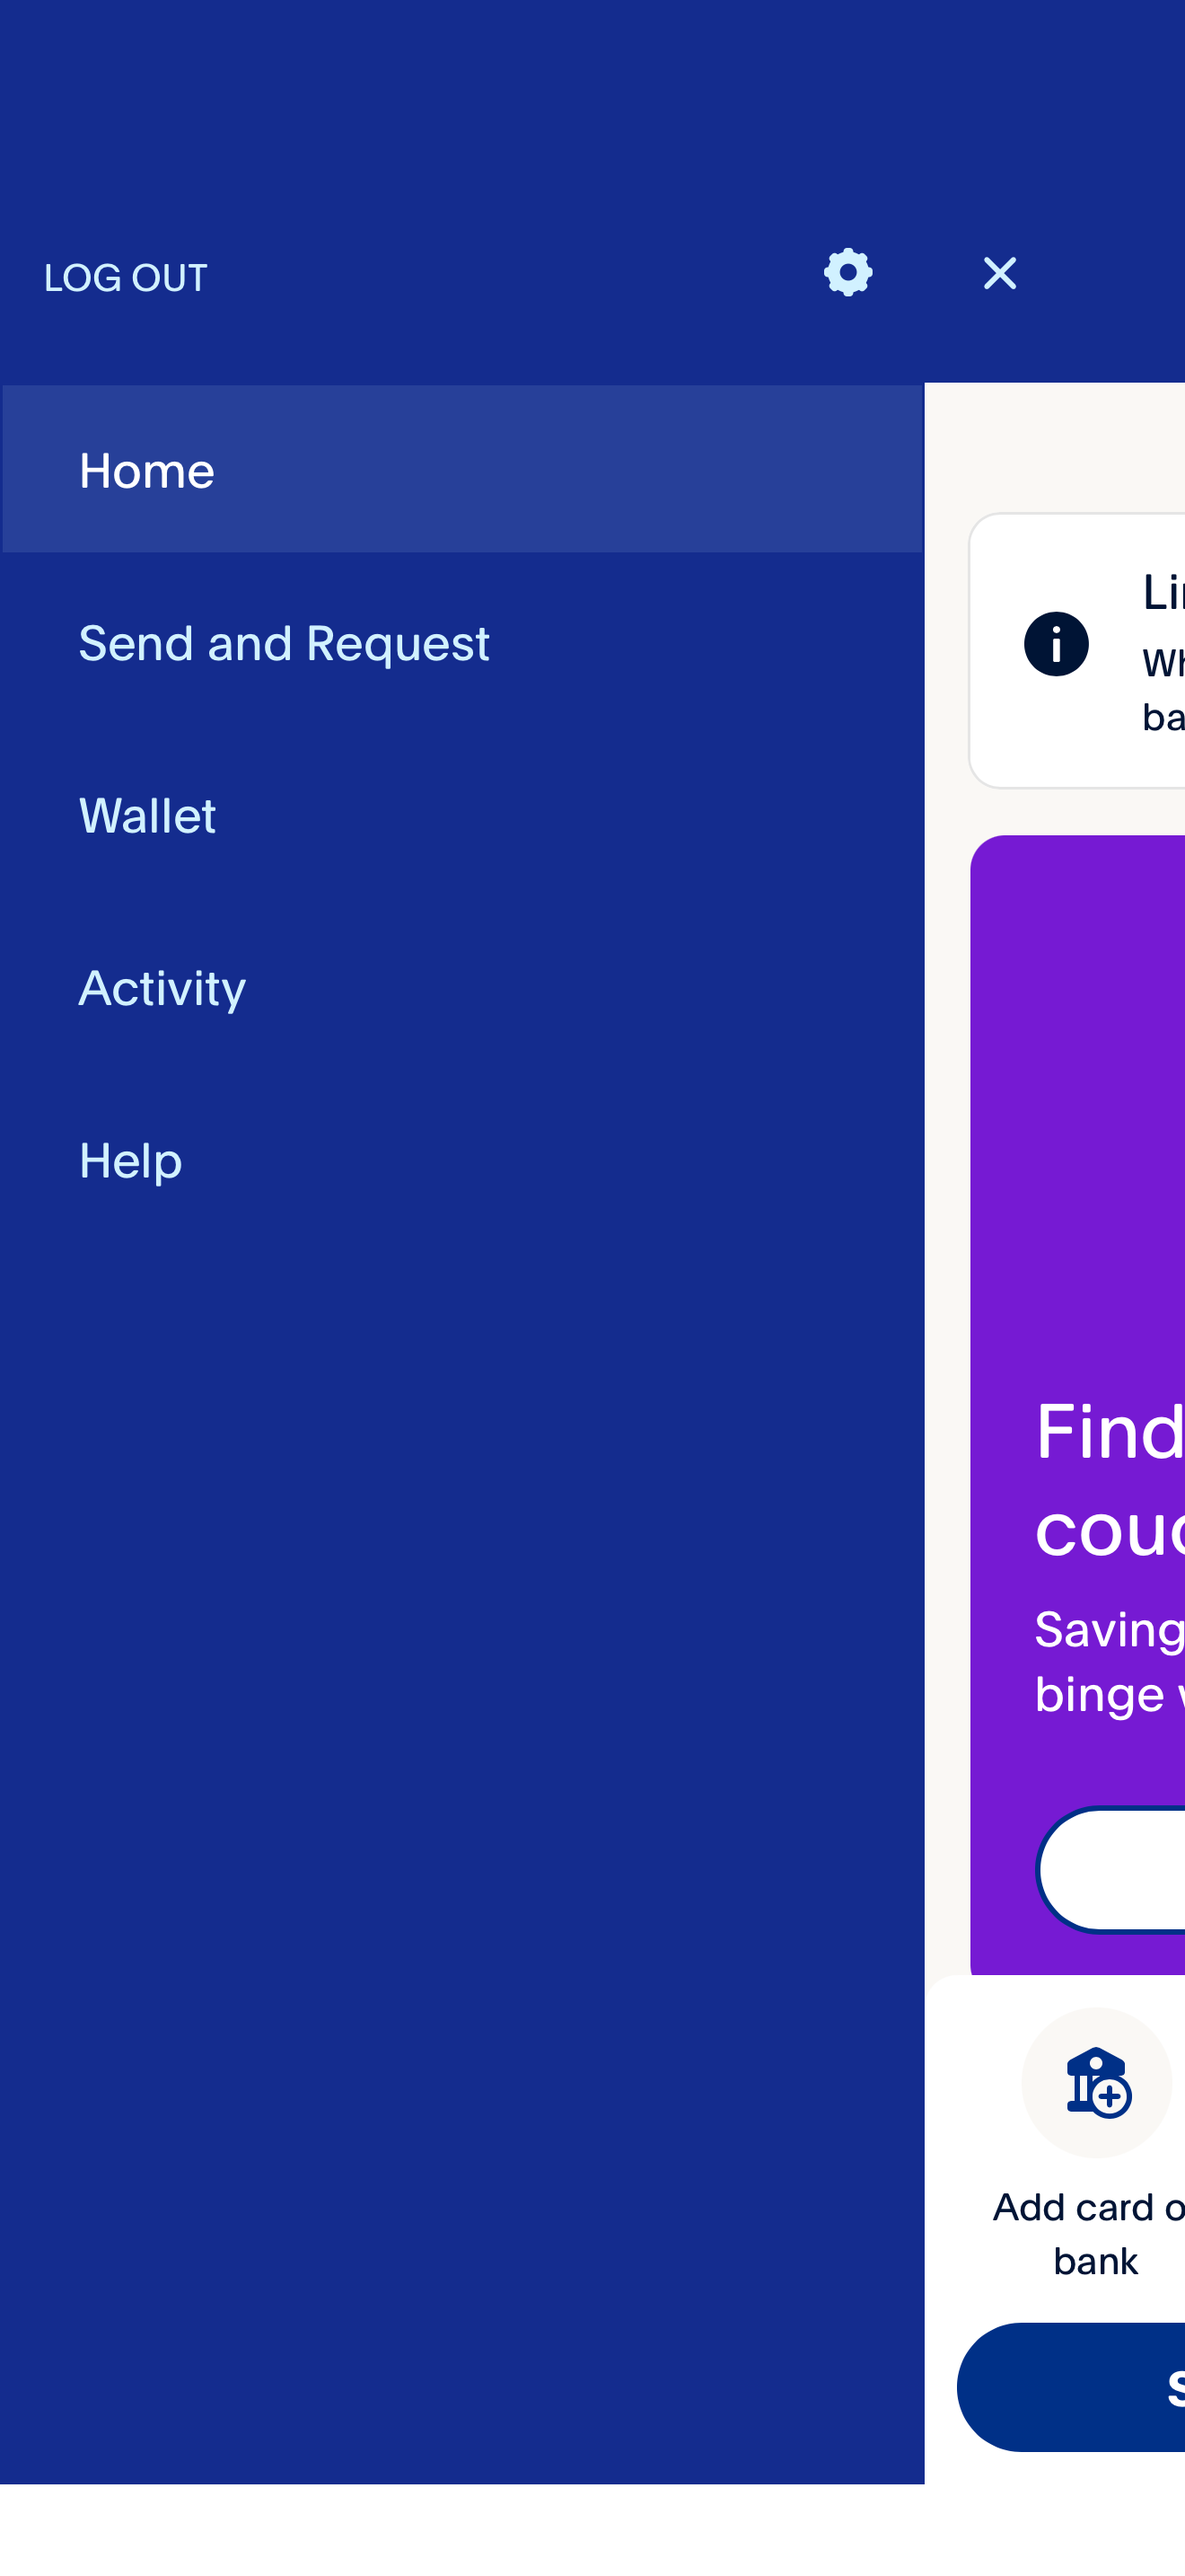
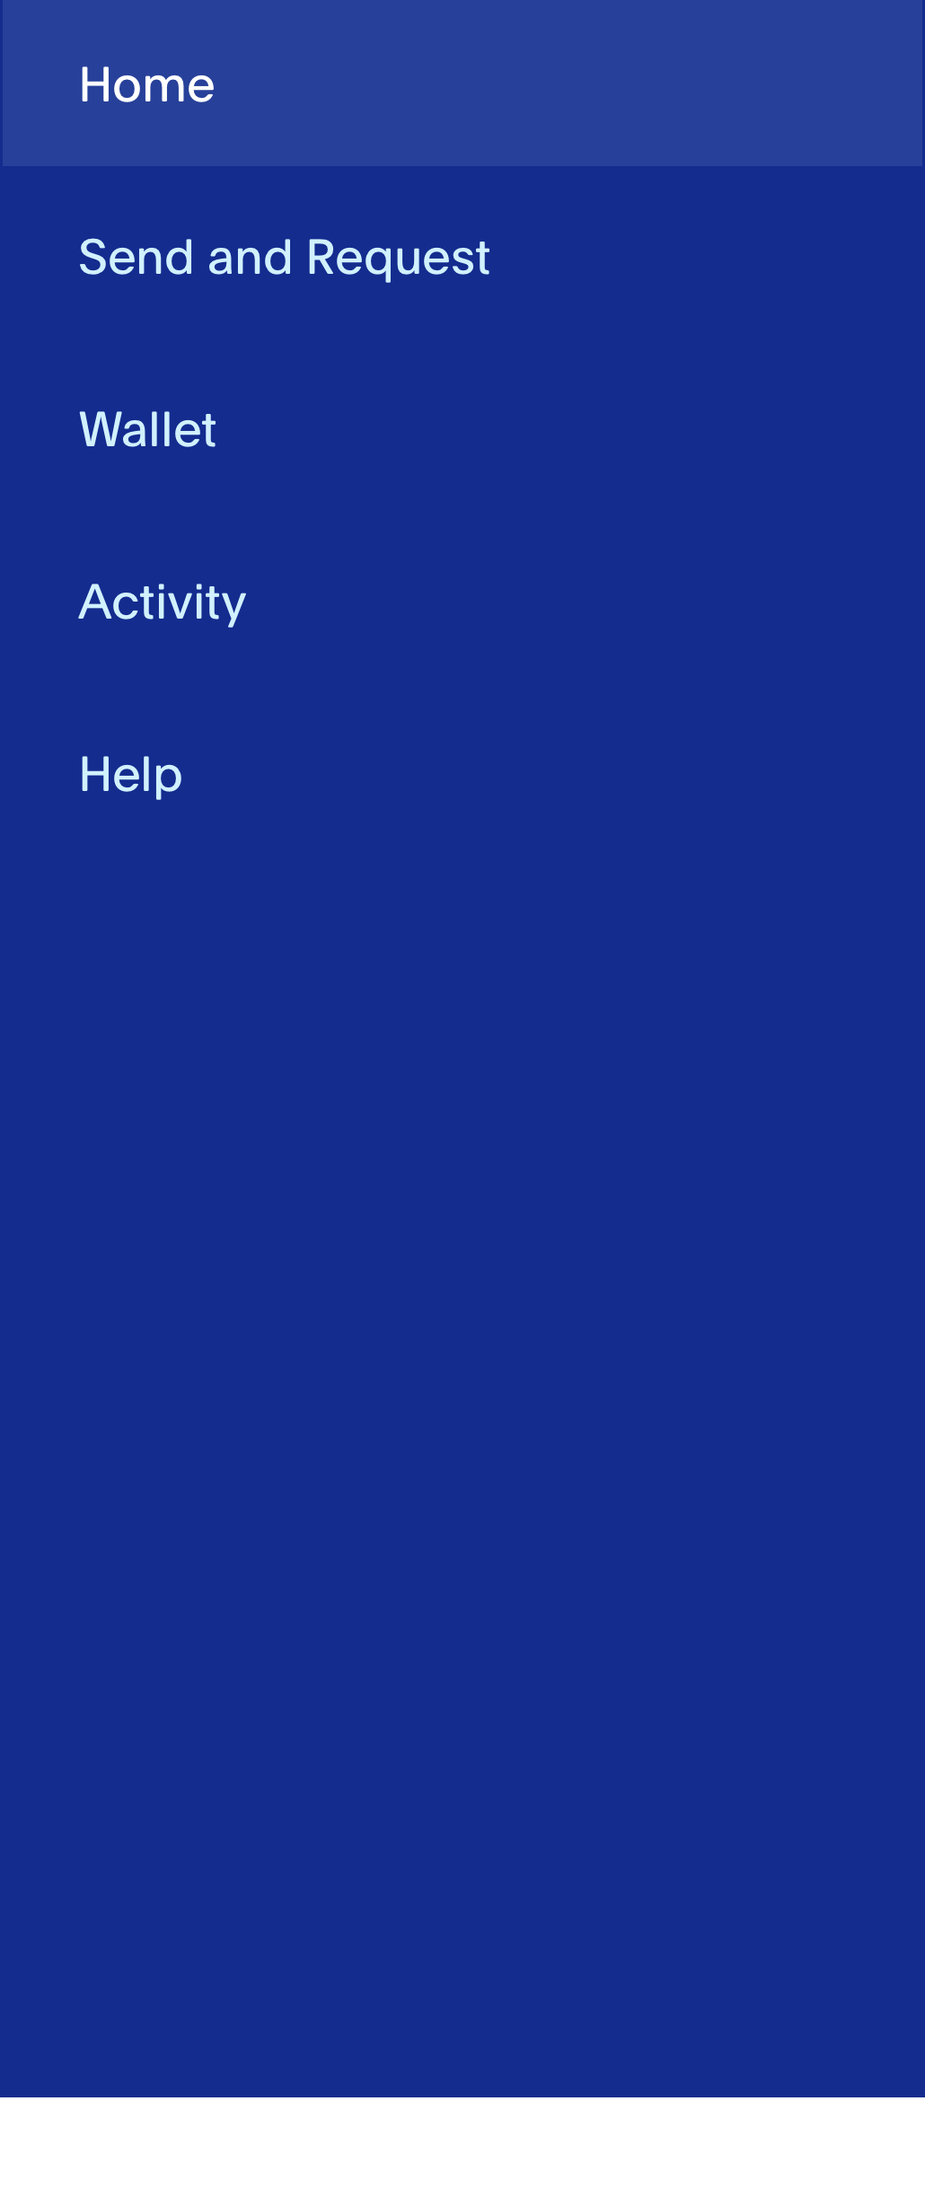
PayPal UI: crop menu drawer image to just the panel, show real dimmed page behind it instead of unrelated screenshot content
Claude-Session: https://claude.ai/code/session_016T1Jkd3oEQVgMye4WzvXzJ

diff --git a/paypal/index.html b/paypal/index.html
@@ -92,14 +92,16 @@ html,body{margin:0;background:#fff;color:#000;touch-action:manipulation;-webkit-
 #donebtn{z-index:2}
 .link2{color:#1b1f8a;font-weight:700}
 .hdrhit{position:absolute;top:6%;height:8%;border:0;background:none;padding:0;cursor:pointer;-webkit-tap-highlight-color:transparent;z-index:5}
-.menuwrap,.notifwrap{position:absolute;inset:0;z-index:30;background:center/100% 100% no-repeat;pointer-events:none}
-.menuwrap{background-image:url(menu.png);transform:translateX(-100%);transition:transform .32s cubic-bezier(.32,.72,0,1)}
-.menuwrap.open{transform:translateX(0);pointer-events:auto}
-.notifwrap{background-image:url(notif.png);opacity:0;transition:opacity .22s ease}
-.notifwrap.open{opacity:1;pointer-events:auto}
-@media (prefers-reduced-motion:reduce){.menuwrap{transition-duration:.01s}.notifwrap{transition-duration:.01s}}
+.menuwrap,.notifwrap{position:absolute;inset:0;z-index:30;pointer-events:none;opacity:0;transition:opacity .22s ease}
+.menuwrap.open,.notifwrap.open{opacity:1;pointer-events:auto}
+.menuwrap{background:rgba(0,0,0,.35)}
+.menuhdr2{position:absolute;left:0;top:0;width:100%;height:14.5%;background:center/100% 100% no-repeat;background-image:url(menuhdr.png)}
+.menudrawer2{position:absolute;left:0;top:14.5%;height:85.5%;width:78%;background:center/100% 100% no-repeat;background-image:url(menu.png);transform:translateX(-100%);transition:transform .32s cubic-bezier(.32,.72,0,1)}
+.menuwrap.open .menudrawer2{transform:translateX(0)}
+.notifwrap{background:center/100% 100% no-repeat;background-image:url(notif.png)}
+@media (prefers-reduced-motion:reduce){.menuwrap,.notifwrap{transition-duration:.01s}.menudrawer2{transition-duration:.01s}}
 .ohit{position:absolute;border:0;background:none;padding:0;cursor:pointer;-webkit-tap-highlight-color:transparent}
-.mrow{left:0;width:78%;height:6.6%}
+.mrow{left:0;width:100%;height:7.72%}
 </style>
 <div class="wrap"><div class="ui" id="ui">
 <section class="page p-send" id="p-send"><span class="t h" data-w="397" style="left:6.30%;top:30.60%">Send payment to</span><span class="t ph meas" data-w="477" style="left:16.50%;top:38.05%">Name, username, email, mobile</span><span class="t link" data-w="235" style="left:6.30%;top:49.80%">Show all contacts</span><span class="t h" data-w="432" style="left:6.30%;top:56.65%">More ways to send</span><span class="t it" data-w="212" style="left:20.09%;top:64.65%">Send an invoice</span><span class="t sub" data-w="419" style="left:20.09%;top:66.50%">Customize, track, and send invoices.</span><span class="t it" data-w="373" style="left:20.09%;top:73.25%">Send and receive donations</span><span class="t sub" data-w="391" style="left:20.09%;top:75.10%">Find support and help others now.</span><div class="sbox" id="sbox"><input id="q" type="text" placeholder="Name, username, email, mobile" autocomplete="off" autocapitalize="none" spellcheck="false" enterkeyhint="search" aria-label="Name, username, email, mobile"><button class="clr" id="clr" type="button" aria-label="Clear" hidden>&times;</button></div>
@@ -129,7 +131,7 @@ html,body{margin:0;background:#fff;color:#000;touch-action:manipulation;-webkit-
 <button class="crow" type="button" data-c="USD" data-n="us dollar" aria-checked="true"><img src="usd.png" alt=""><span><b>US Dollar</b><small>USD</small></span><svg class="chk" viewBox="0 0 24 24"><circle cx="12" cy="12" r="12" fill="#000"/><path d="M7 12.5l3.2 3.2L17 9" fill="none" stroke="#fff" stroke-width="2"/></svg></button>
 </div></div></div>
 </div></div><button class="hdrhit" id="hamhit" aria-label="Menu" style="left:1%;width:15%"></button><button class="hdrhit" id="bellhit" aria-label="Notifications" style="left:84%;width:15%"></button>
-<div class="menuwrap" id="menuPanel"><button class="ohit" id="menudim" aria-label="Close" style="left:78%;width:22%;top:0;height:100%"></button><button class="ohit" id="menuClose" aria-label="Close" style="left:80%;width:12%;top:7%;height:7%"></button><button class="ohit" id="gearBtn" aria-label="Settings" style="left:67%;width:10%;top:7%;height:7%"></button><button class="ohit" id="logoutBtn" aria-label="Log out" style="left:0;width:30%;top:7%;height:7%"></button><button class="ohit mrow" data-go="" style="top:15%" aria-label="Home"></button><button class="ohit mrow" data-go="send" style="top:21.5%" aria-label="Send and Request"></button><button class="ohit mrow" data-go="" style="top:28.3%" aria-label="Wallet"></button><button class="ohit mrow" data-go="" style="top:35%" aria-label="Activity"></button><button class="ohit mrow" data-go="" style="top:42%" aria-label="Help"></button></div>
+<div class="menuwrap" id="menuPanel"><div class="menuhdr2"><button class="ohit" id="logoutBtn" aria-label="Log out" style="left:0;width:30%;top:48.3%;height:48.3%"></button><button class="ohit" id="gearBtn" aria-label="Settings" style="left:67%;width:10%;top:48.3%;height:48.3%"></button><button class="ohit" id="menuClose" aria-label="Close" style="left:80%;width:12%;top:48.3%;height:48.3%"></button></div><div class="menudrawer2"><button class="ohit mrow" data-go="" style="top:0.6%" aria-label="Home"></button><button class="ohit mrow" data-go="send" style="top:8.2%" aria-label="Send and Request"></button><button class="ohit mrow" data-go="" style="top:16.1%" aria-label="Wallet"></button><button class="ohit mrow" data-go="" style="top:24%" aria-label="Activity"></button><button class="ohit mrow" data-go="" style="top:32.2%" aria-label="Help"></button></div></div>
 <div class="notifwrap" id="notifPanel"><button class="ohit" id="notifClose" aria-label="Close" style="left:86%;width:12%;top:7%;height:7%"></button></div>
 <script>
 (function(){
@@ -228,7 +230,8 @@ document.getElementById('link2').addEventListener('click',function(){show('send'
 var menuPanel=document.getElementById('menuPanel'),notifPanel=document.getElementById('notifPanel');
 document.getElementById('hamhit').addEventListener('click',function(){notifPanel.classList.remove('open');menuPanel.classList.add('open')});
 document.getElementById('bellhit').addEventListener('click',function(){menuPanel.classList.remove('open');notifPanel.classList.add('open')});
-['menudim','menuClose','gearBtn','logoutBtn'].forEach(function(id){document.getElementById(id).addEventListener('click',function(){menuPanel.classList.remove('open')})});
+['menuClose','gearBtn','logoutBtn'].forEach(function(id){document.getElementById(id).addEventListener('click',function(){menuPanel.classList.remove('open')})});
+menuPanel.addEventListener('click',function(e){if(!e.target.closest('.menuhdr2,.menudrawer2'))menuPanel.classList.remove('open')});
 document.getElementById('notifClose').addEventListener('click',function(){notifPanel.classList.remove('open')});
 document.querySelectorAll('.mrow').forEach(function(b){b.addEventListener('click',function(){
   menuPanel.classList.remove('open');
